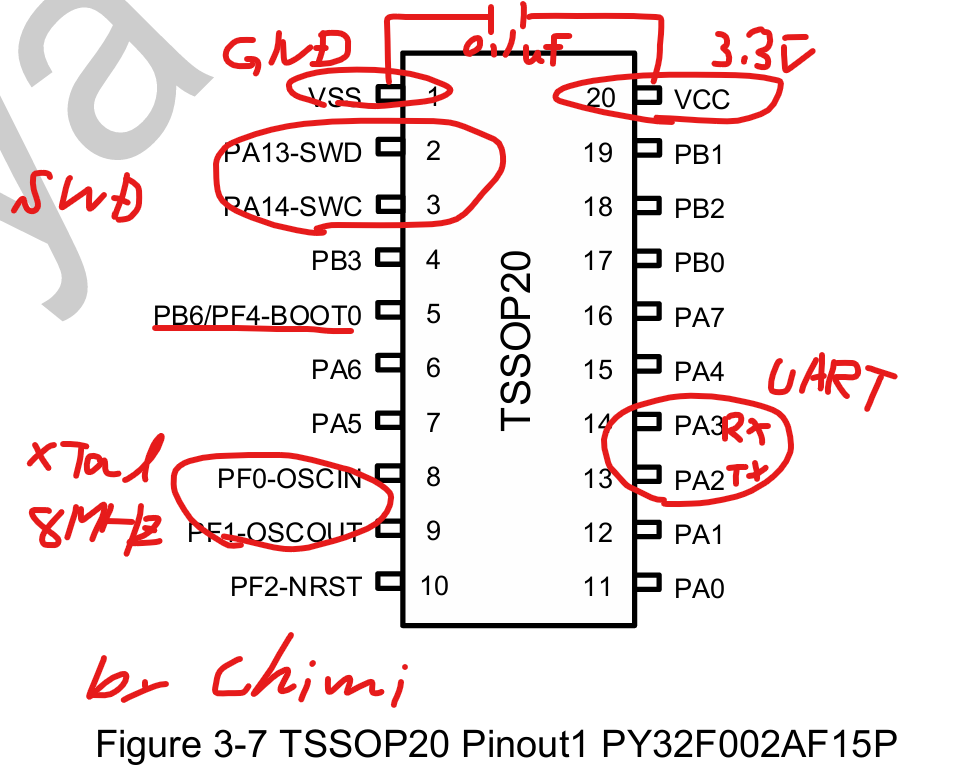
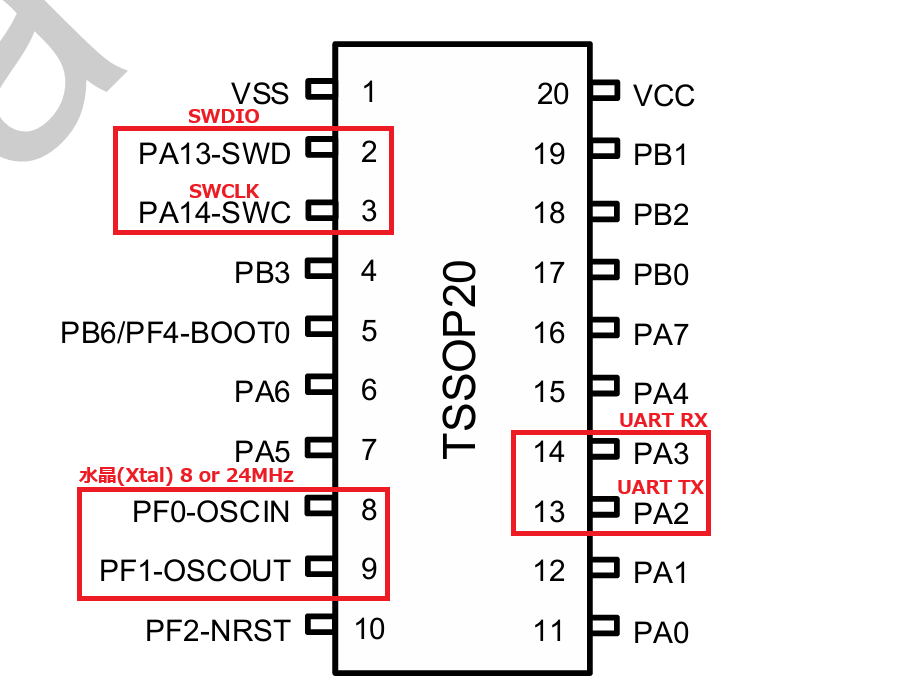
ピン配の図を修正

Changed region(s): [[0.0, 0.0, 0.9333, 0.9943]]

diff --git a/README.md b/README.md
@@ -11,7 +11,7 @@
 > [!CAUTION]
 > ⚠この実装では、PY32F002Aに未搭載のはずの機能の多くが実行、動作している(※)⚠<br>
 > ※[PY32F002AF15P6](https://www.py32.org/en/mcu/PY32F002Axx.html)🔗はシリコンがROM32KB,RAM4KBの[PY32F030](https://www.py32.org/en/mcu/PY32F030xx.html#introduction)🔗の可能性がある<br>
-> ※PY32F002Aにはないはずの下記機能の実行と動作を確認<br>
+> ※PY32F002Aには未搭載のはずの下記機能の実行と動作を確認<br>
 > ➡ PLLでクロックを48MHzにできる<br>
 > ➡ DMAも動く<br>
 > ➡ RTCも動く<br>
